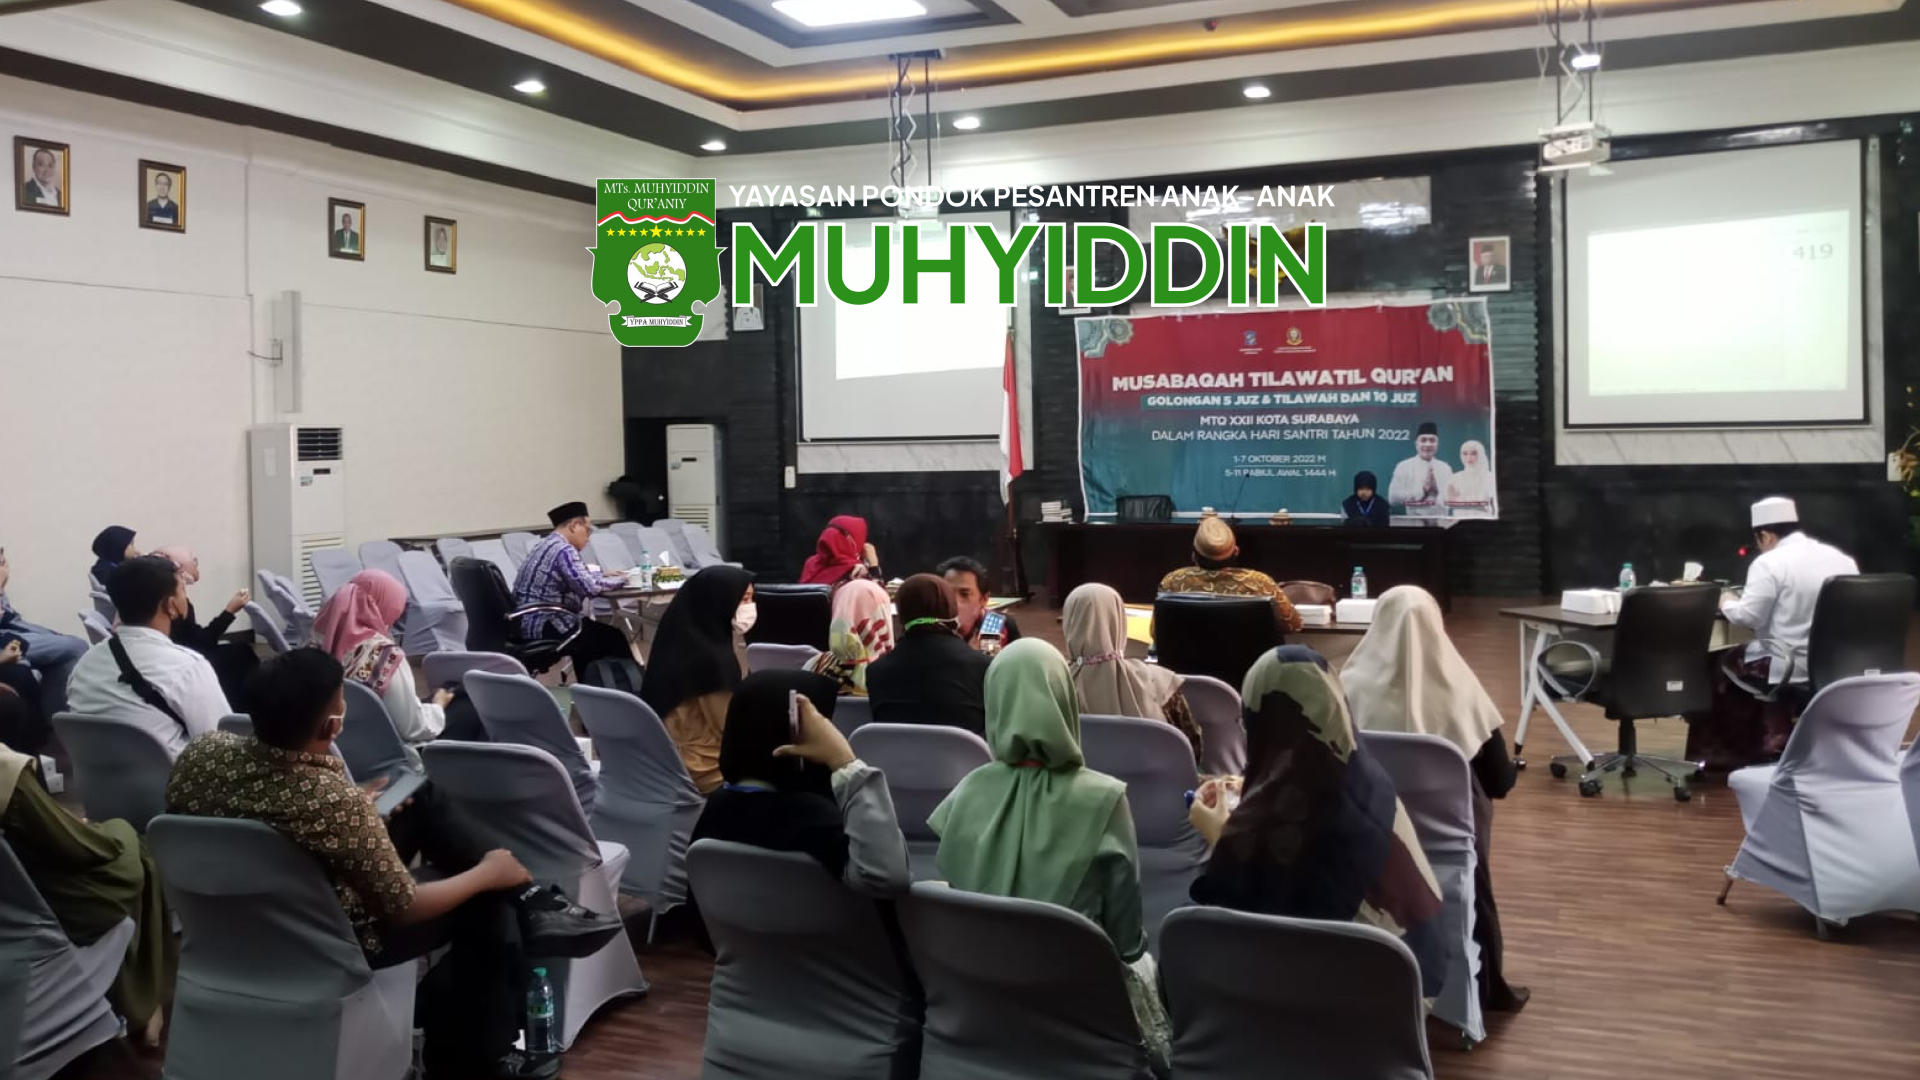
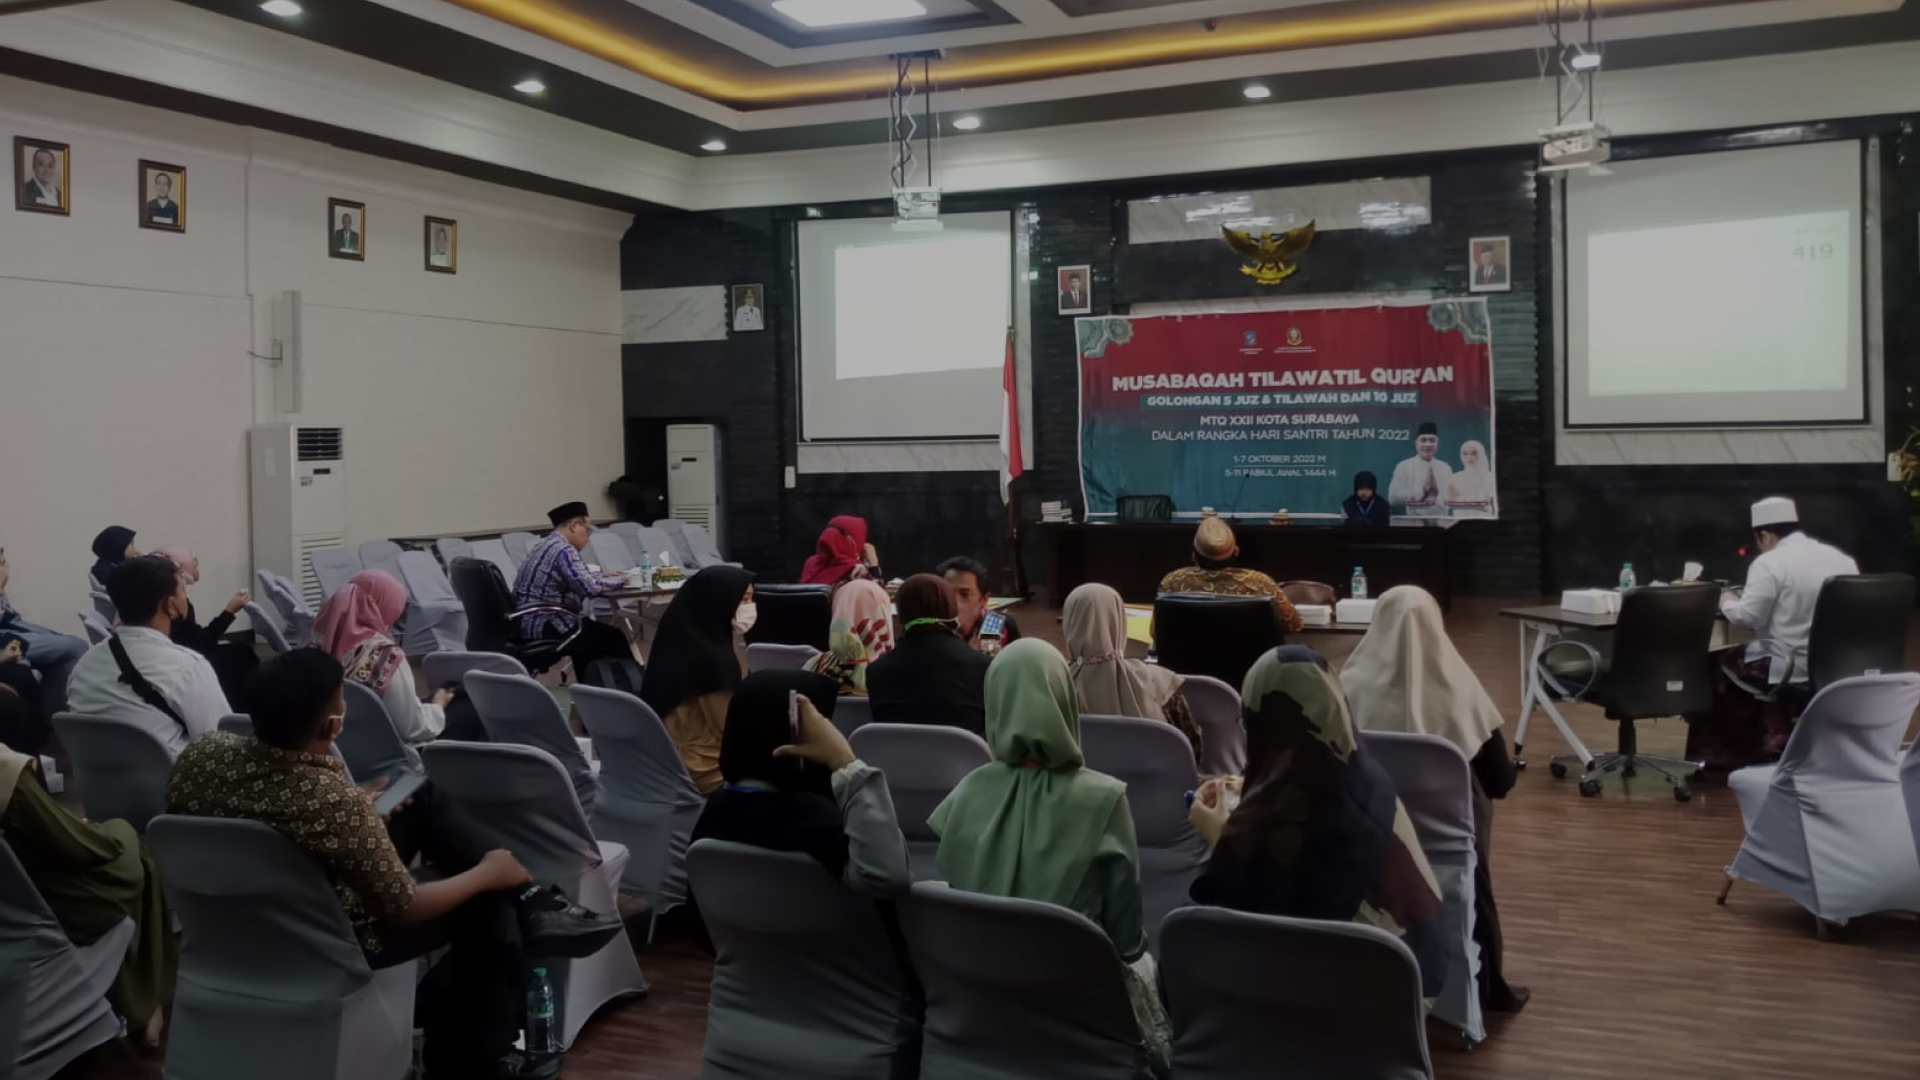
Add new hero layout to darker image

diff --git a/src/app/layouts/Footer.tsx b/src/app/layouts/Footer.tsx
@@ -1,5 +1,6 @@
 import React from 'react';
 import { Phone, Mail, MapPin, Clock, Facebook, Instagram, Youtube } from 'lucide-react';
+import Link from 'next/link';
 
 const Footer = () => {
   return (
@@ -18,11 +19,11 @@ const Footer = () => {
               </p>
               <p className="flex items-center gap-2 text-white">
                 <Phone className="h-5 w-5 " />
-                <span>+62 123 4567 8890</span>
+                <span>+62 818 0500 3572</span>
               </p>
               <p className="flex items-center gap-2 text-white">
                 <Mail className="h-5 w-5 " />
-                <span>info@mtsmuhyiddin.sch.id</span>
+                <span>mts.muhyiddin.quraniy@gmail.com</span>
               </p>
             </div>
           </div>
@@ -31,10 +32,10 @@ const Footer = () => {
           <div>
             <h3 className="text-white text-lg font-semibold mb-4">Tautan Cepat</h3>
             <ul className="space-y-2">
-              <li><a href="#" className="hover:text-primary-400 transition-colors">Beranda</a></li>
-              <li><a href="#" className="hover:text-primary-400 transition-colors">Profil</a></li>
-              <li><a href="#" className="hover:text-primary-400 transition-colors">PPDB</a></li>
-              <li><a href="#" className="hover:text-primary-400 transition-colors">Kontak</a></li>
+              <li><Link href="/" className="hover:text-primary-400 transition-colors">Beranda</Link></li>
+              <li><Link href="/profil" className="hover:text-primary-400 transition-colors">Profil</Link></li>
+              <li><Link href="/ppdb" className="hover:text-primary-400 transition-colors">PPDB</Link></li>
+              <li><Link href="#" className="hover:text-primary-400 transition-colors">Kontak</Link></li>
             </ul>
           </div>
 

diff --git a/src/app/profil/page.tsx b/src/app/profil/page.tsx
@@ -1,6 +1,6 @@
 import Hero from "../layouts/HeroLayout";
 import MainLayout from "../layouts/MainLayout";
-import heroImage from "../../../public/img-5.jpg";
+import heroImage from "../../../public/hero-3.png";
 
 export default function Profil() {
   return (
@@ -23,7 +23,7 @@ export default function Profil() {
         <div className="mt-12 prose max-w-none">
           <div className="bg-white rounded-lg shadow-lg p-6 mb-8">
             <p className="text-gray-700 mb-6">
-              Madrasah Tsanawiyah (MTs) Muhyiddin adalah sebuah lembaga pendidikan tingkat SMP di bawah naungan Yayasan Pondok Pesantren Anda Lirboyo yang didirikan oleh Alm. Romo K.H. Achmad Thobib. Yayasan ini memfokuskan pada pengajaran Al-Qur'an baik dengan metode Simudaris maupun Tahfidz Al-Qur'an. MTs Muhyiddin telah memadukan antara kurikulum pendidikan agama dan kurikulum pendidikan nasional dengan berbasis pondok pesantren dengan ciri khas Islam Ahlussunnah Wal Jamaah.
+              Madrasah Tsanawiyah (MTs) Muhyiddin adalah sebuah lembaga pendidikan tingkat SMP di bawah naungan Yayasan Pondok Pesantren Anak-anak Muhyiddin yang didirikan oleh Alm. Romo K.H. Achmad Thobib. Yayasan ini memfokuskan pada pengajaran Al-Qur'an baik dengan metode Simudaris maupun Tahfidz Al-Qur'an. MTs Muhyiddin telah memadukan antara kurikulum pendidikan agama dan kurikulum pendidikan nasional dengan berbasis pondok pesantren dengan ciri khas Islam Ahlussunnah Wal Jama'ah.
             </p>
           </div>
 

diff --git a/src/app/layouts/HeroLayout.tsx b/src/app/layouts/HeroLayout.tsx
@@ -24,20 +24,20 @@ function Hero({
   showButton = true
 }: HeroProps) {
   return (
-    <div className={`relative bg-blue-500 h-screen ${className}`}>
+    <div className={`relative bg-blue-500 h-screen md:h-screen ${className}`}>
       <Image
         src={backgroundImage}
         alt={imageAlt}
         layout="fill"
         objectFit="cover"
-        className="opacity-75 transition-opacity duration-500"
+        className="opacity-100 transition-opacity duration-500"
         priority
       />
-      <div className="absolute top-1/2 left-1/2 transform -translate-x-1/2 -translate-y-1/2 text-white text-center max-w-4xl px-4">
+      <div className="absolute top-1/2 left-1/2 transform -translate-x-1/2 -translate-y-1/2 text-white text-center w-full md:max-w-4xl md:px-4 ">
         <h1 className="text-4xl font-extrabold mb-4 sm:text-6xl text-white">
           {title}
         </h1> 
-        <p className="text-lg mb-6 sm:text-xl text-white">
+        <p className="text-lg mb-6 sm:text-base text-white">
           {description}
         </p>
         {showButton && (

diff --git a/src/app/layouts/AboutLayout.tsx b/src/app/layouts/AboutLayout.tsx
@@ -51,7 +51,7 @@ const About = () => {
         
         <div className="grid md:grid-cols-2 gap-12">
           {/* Vision */}
-          <div className="bg-white p-8 rounded-xl shadow-lg ">
+          <div className="bg-white p-8 rounded-xl shadow-lg  ">
             <div className="inline-block p-3 bg-primary-100 rounded-lg mb-4">
               <Target className="h-8 w-8 text-primary-600" />
             </div>

diff --git a/src/app/page.tsx b/src/app/page.tsx
@@ -1,7 +1,7 @@
 import MainLayout from "./layouts/MainLayout";
 import Hero from "./layouts/HeroLayout";
 import About from "./layouts/AboutLayout";
-import heroImage from "../../public/img-11.png";
+import heroImage from "../../public/hero-1.png";
 
 export default function Home() {
   return (
